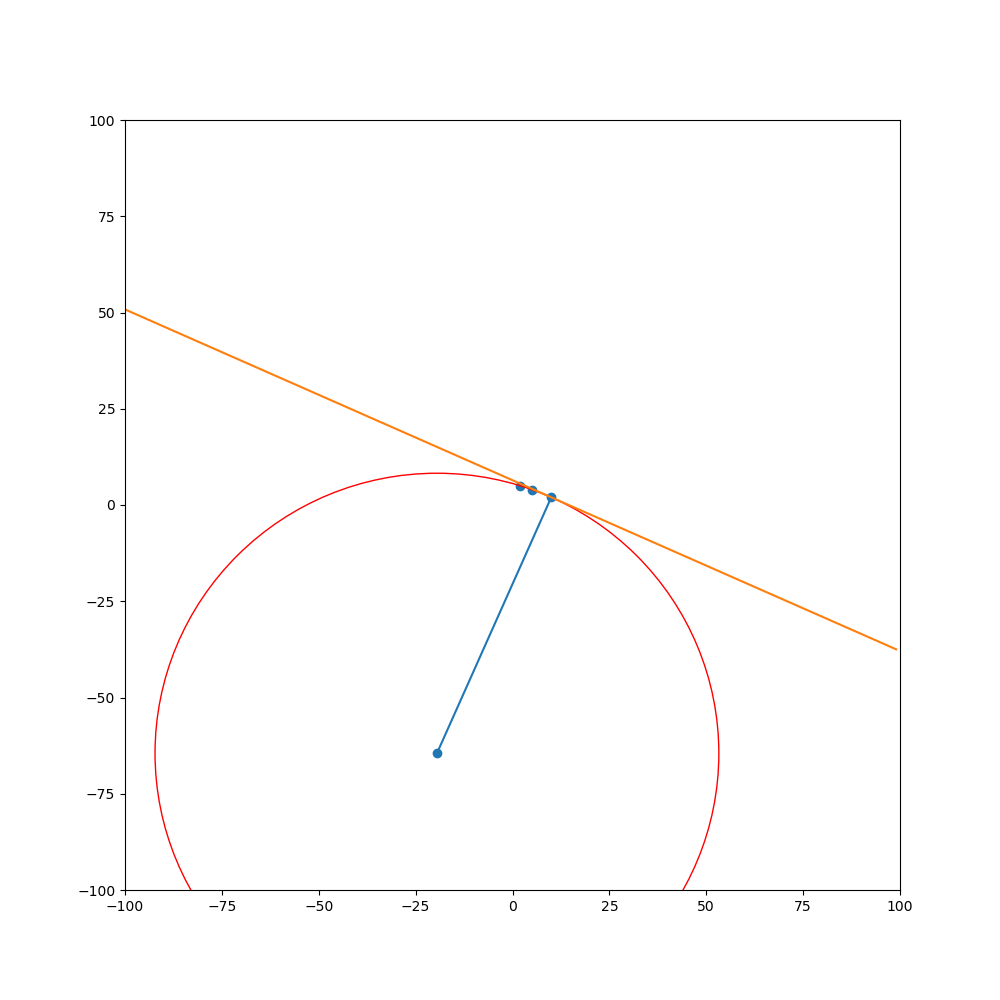
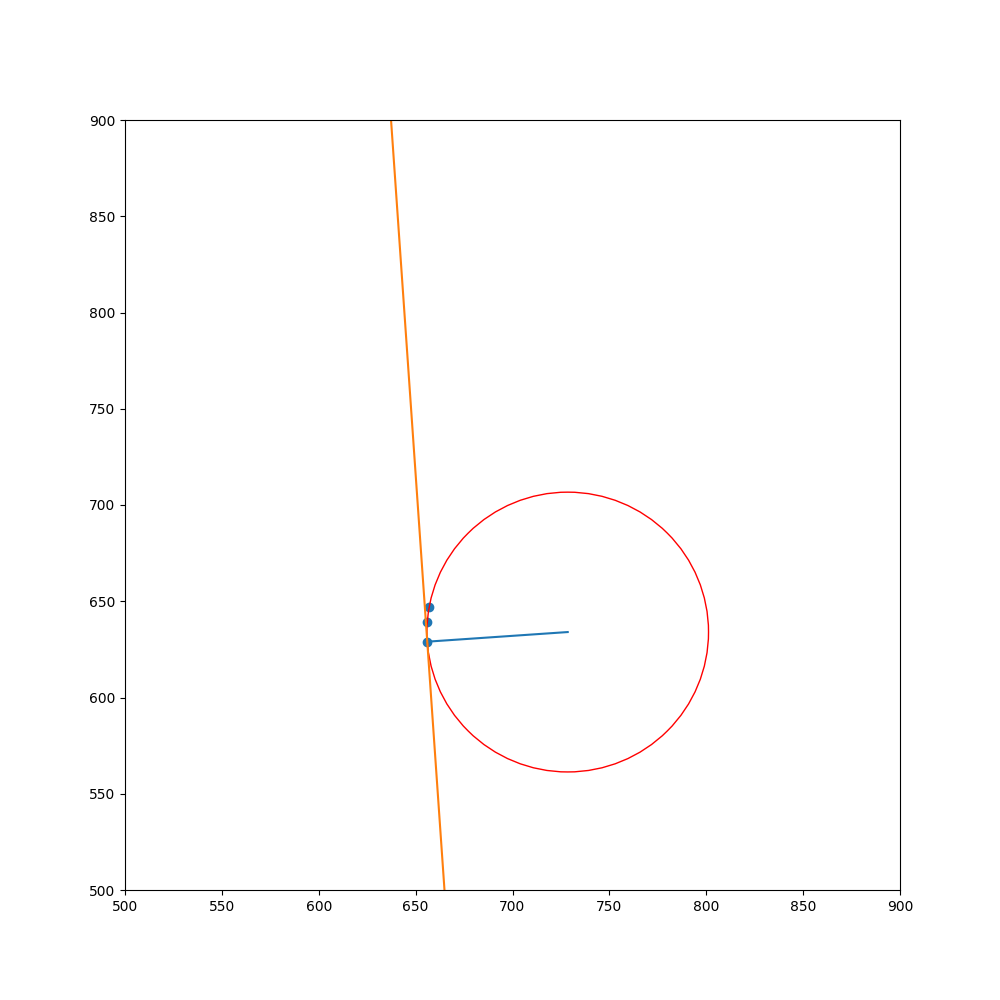
-
-

diff --git a/image_task/image_preprocessing/find_one_circle.py b/image_task/image_preprocessing/find_one_circle.py
@@ -1,13 +1,13 @@
 import numpy as np
-import torch
 import matplotlib.pyplot as plt
 from matplotlib.patches import Circle
 import tensorflow as tf
 import math
-import scipy
 import time
+import cv2
+import os
 
-tf.enable_eager_execution()
+# tf.enable_eager_execution()
 
 
 def gauss_newton():
@@ -20,7 +20,7 @@ def gauss_newton():
     pass
 
 
-def using_three_points(): 
+def using_three_points(x, y): 
     """
     곡선의 시작, 중점, 끝점을 추출하여 세 점을 이용해서 원 파라미터를 구함.  http://heilow.egloos.com/v/418569
     input (x1, y1), (x2, y2), (x3, y3)
@@ -38,11 +38,13 @@ def using_three_points():
         
     """
     
-    x = [2, 5, 10]
-    y = [5, 4, 2]
+    # 임의의 데이터 생성
+    # x = [2, 5, 10]
+    # y = [5, 4, 2]
     
     # x = [2, 10, 6]
     # y = [5, 3, 2]
+
     
     # circle 구하기 http://egloos.zum.com/heilow/v/418569
     d1=(x[1]-x[0])/(y[1]-y[0]);
@@ -57,14 +59,19 @@ def using_three_points():
     print(cy)
     print(r)
     
-    x.append(cx)
-    y.append(cy)
+    # x.append(cx)
+    # y.append(cy)
     
     
     # 접선방정식 구하기 m = 기울기, n = y 절편
     m = (-1)*((cx-x[2])/(cy-y[2]))
     n = (-1)*(m*x[2]) + y[2]
-    x_range = np.arange(-100,100, 1)
+
+    min_x = 0.8 * min(x)
+    max_x = 1.2 * max(x)
+
+
+    x_range = np.arange(min_x,max_x, 0.5)
     y_range = [(m*num+n) for num in x_range]
   
     print(f"y = {m}x + {n}")
@@ -78,8 +85,8 @@ def using_three_points():
     
     fig, ax = plt.subplots(figsize=(10, 10))
     
-    ax.set_xlim([-100, 100])
-    ax.set_ylim([-100, 100])
+    ax.set_xlim([500, 900])
+    ax.set_ylim([500, 900])
 
     
     ax.scatter(x, y)
@@ -90,21 +97,24 @@ def using_three_points():
     fig.savefig("./aa.png")
        
 
-def gradient_descent():
+def gradient_descent(x, y):
     
-    x = [np.random.rand() * 10 for i in range(100)]
-    x = np.array(x)
-    y = list()
-    
-    for i in range(len(x)):
-        y_item = np.sqrt(25 - np.square(x[i]-5))
-        if np.random.rand() < 0.5:
-            y_item = -y_item + 5.0
-        else:
-            y_item = y_item + 5.0
-        y.append(y_item)
+    # 임의의 데이터 생성
+    # data load x는 random sample, y는 원방정식을 기준으로 bais를 주어 생성
 
-    y = np.array(y) + np.random.rand(100) * 4 - 2
+    # x = [np.random.rand() * 10 for i in range(100)]
+    # x = np.array(x)
+    # y = list()
+    
+    # for i in range(len(x)):
+    #     y_item = np.sqrt(25 - np.square(x[i]-5))
+    #     if np.random.rand() < 0.5:
+    #         y_item = -y_item + 5.0
+    #     else:
+    #         y_item = y_item + 5.0
+    #     y.append(y_item)
+
+    # y = np.array(y) + np.random.rand(100) * 4 - 2
     
     # gradient descent
     # parameters initialize
@@ -156,18 +166,59 @@ def gradient_descent():
 
     plt.show()
 
+def extract_three_points(left_w, left_h):
+    mid_idx = int(len(left_h) / 2)
+    start_idx = np.argmax(left_h)
+    end_idx = np.argmin(left_h)
+
+    start_point_w, start_point_h = left_w[start_idx], left_h[start_idx]
+    mid_point_w, mid_point_h = left_w[mid_idx], left_h[mid_idx]
+    end_point_w, end_point_h = left_w[end_idx], left_h[end_idx]
+
+    x_points_list = list()
+    y_points_list = list()
+
+    x_points_list.append(start_point_w)
+    x_points_list.append(mid_point_w)
+    x_points_list.append(end_point_w)
+    y_points_list.append(start_point_h)
+    y_points_list.append(mid_point_h)
+    y_points_list.append(end_point_h)
+
+    return x_points_list, y_points_list
+
+
 
 if __name__ == "__main__":
-    
-    
-    # data load x는 random sample, y는 원방정식을 기준으로 bais를 주어 생성
-    
-  
-    
+
+    img_path = os.path.join(os.path.dirname(os.path.abspath(__file__)), 'test_data', 'Label_14.png')
+
+    img = cv2.imread(img_path, cv2.IMREAD_GRAYSCALE)
+
+    print(np.unique(img))
+
+    # pixel value 1 is object and 2 is curve
+    # img[img<=1.] = 0
+
+    object = img == 1.
+
+    curve = img>=2.
+    curve = curve * 255.
+
+    curve_h, curve_w = np.where(curve == 255.)
+
+    left_curve_idx = np.argwhere(curve_w <= 680)
+
+    left_w = [curve_w[idx] for idx in left_curve_idx]
+    left_h = [curve_h[idx] for idx in left_curve_idx]
+
+    x_points, y_points = extract_three_points(left_w, left_h)
+        
     # gradient_descent
     # gradient_descent()
     
     # using three point 
-    using_three_points()
+    print(f"points info: x:{x_points}, y: {y_points}")
+    using_three_points(x_points, y_points)
     
 

diff --git a/image_task/image_preprocessing/label_to_mask.py b/image_task/image_preprocessing/label_to_mask.py
@@ -1,0 +1,108 @@
+import numpy as np
+import cv2
+import os
+
+def extract_three_points(left_w, left_h):
+    mid_idx = int(len(left_h) / 2)
+    start_idx = np.argmax(left_h)
+    end_idx = np.argmin(left_h)
+
+    start_point_w, start_point_h = left_w[start_idx], left_h[start_idx]
+    mid_point_w, mid_point_h = left_w[mid_idx], left_h[mid_idx]
+    end_point_w, end_point_h = left_w[end_idx], left_h[end_idx]
+
+    x_points_list = list()
+    y_points_list = list()
+
+    x_points_list.append(start_point_w)
+    x_points_list.append(mid_point_w)
+    x_points_list.append(end_point_w)
+    y_points_list.append(start_point_h)
+    y_points_list.append(mid_point_h)
+    y_points_list.append(end_point_h)
+
+    return x_points_list, y_points_list
+
+
+
+if __name__ == "__main__":
+
+    img_path = os.path.join(os.path.dirname(os.path.abspath(__file__)), 'test_data', 'Label_14.png')
+
+    img = cv2.imread(img_path, cv2.IMREAD_GRAYSCALE)
+
+    print(np.unique(img))
+
+    # pixel value 1 is object and 2 is curve
+    # img[img<=1.] = 0
+
+    object = img == 1.
+
+    curve = img>=2.
+    curve = curve * 255.
+
+    curve_h, curve_w = np.where(curve == 255.)
+
+    left_curve_idx = np.argwhere(curve_w <= 680)
+
+    left_w = [curve_w[idx] for idx in left_curve_idx]
+    left_h = [curve_h[idx] for idx in left_curve_idx]
+
+    x_points, y_points = extract_three_points(left_w, left_h)
+
+    print("zz")
+
+
+
+
+
+
+
+
+
+
+
+
+
+
+
+
+
+
+
+
+
+
+
+
+
+
+
+
+
+
+
+
+
+# cv2.imshow("zz", curve)
+# cv2.waitKey(0)
+# cv2.destroyAllWindows()
+
+# w, h = curve.shape[0], curve.shape[1]
+
+# arr = np.zeros((w, h, 3))
+
+# arr[:,:,0] = object
+# arr[:,:,1] = object
+# arr[:,:,2] = object
+# arr[:,:,2] = curve
+
+# cv2.imwrite("./a.png", arr)
+
+
+# # img = img * 255.
+
+# # cv2.imshow('zz', img)
+# # cv2.waitKey(0)
+# # cv2.destroyAllWindows()
+
